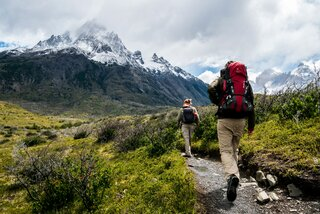
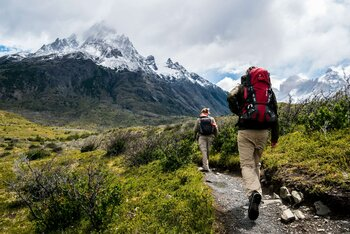
Removed the map from the bottom of the list of selected hotels (useScreenSize), added pictures in higher quality

diff --git a/src/Components/SearchResults/index.jsx b/src/Components/SearchResults/index.jsx
@@ -4,10 +4,12 @@ import './style.css';
 import hotelsData from '../../api/hotels';
 import { HotelList } from '../HotelList';
 import { LoadScript } from '@react-google-maps/api';
+import useScreenSize from '../../../useScreenSize';
 
 export const SearchResults = ({ foundHotelsIds, alternativeHotelsFound }) => {
   const [selectedHotel, setSelectedHotel] = useState(null);
   const [isMapVisible, setIsMapVisible] = useState(false);
+  const isMobile = useScreenSize();
 
   const filteredHotels = hotelsData.filter((hotel) =>
     foundHotelsIds.includes(hotel.id),
@@ -34,13 +36,15 @@ export const SearchResults = ({ foundHotelsIds, alternativeHotelsFound }) => {
           alternativeHotelsFound={alternativeHotelsFound}
           onShowOnMap={handleShowOnMap}
         />
-        <div className={`map-container ${isMapVisible ? 'visible' : ''}`}>
-          <Map
-            hotels={filteredHotels}
-            selectedHotel={selectedHotel}
-            onHotelSelect={setSelectedHotel}
-          />
-        </div>
+         {!isMobile && (  // Conditionally render the map container based on screen size
+          <div className={`map-container ${isMapVisible ? 'visible' : ''}`}>
+            <Map
+              hotels={filteredHotels}
+              selectedHotel={selectedHotel}
+              onHotelSelect={setSelectedHotel}
+            />
+          </div>
+        )}
       </div>
     </LoadScript>
   );

diff --git a/src/api/hotels.js b/src/api/hotels.js
@@ -1026,12 +1026,20 @@ const hotels = [
     web: 'https://www.treebonesresort.com/',
     images: [
       {
-        small: '/assets/Treebones-Resort/boat-small.jpg',
-        large: '/assets/Treebones-Resort/boat.jpg',
+        small: '/assets/Treebones-Resort/hiking-small.jpg',
+        large: '/assets/Treebones-Resort/hiking.jpg',
       },
       {
         small: '/assets/Treebones-Resort/yurta-small.jpg',
         large: '/assets/Treebones-Resort/yurta.jpg',
+      },
+      {
+        small: '/assets/Treebones-Resort/boat-small.jpg',
+        large: '/assets/Treebones-Resort/boat.jpg',
+      },
+      {
+        small: '/assets/Treebones-Resort/yurt-small.jpg',
+        large: '/assets/Treebones-Resort/yurt.jpg',
       },
     ],
     defaultReviews: [

diff --git a/useScreenSize.js b/useScreenSize.js
@@ -1,0 +1,20 @@
+import { useState, useEffect } from 'react';
+
+const useScreenSize = () => {
+  const [isMobile, setIsMobile] = useState(window.innerWidth <= 768);
+
+  const handleResize = () => {
+    setIsMobile(window.innerWidth <= 768);
+  };
+
+  useEffect(() => {
+    window.addEventListener('resize', handleResize);
+    return () => {
+      window.removeEventListener('resize', handleResize);
+    };
+  }, []);
+
+  return isMobile;
+};
+
+export default useScreenSize;
